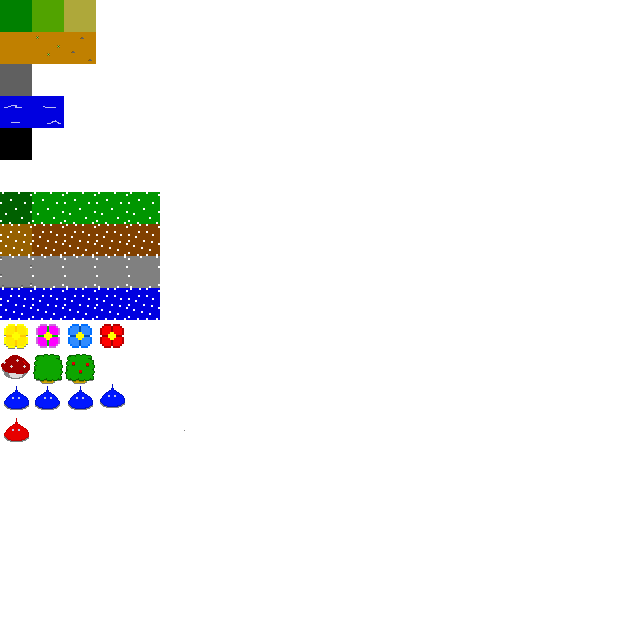
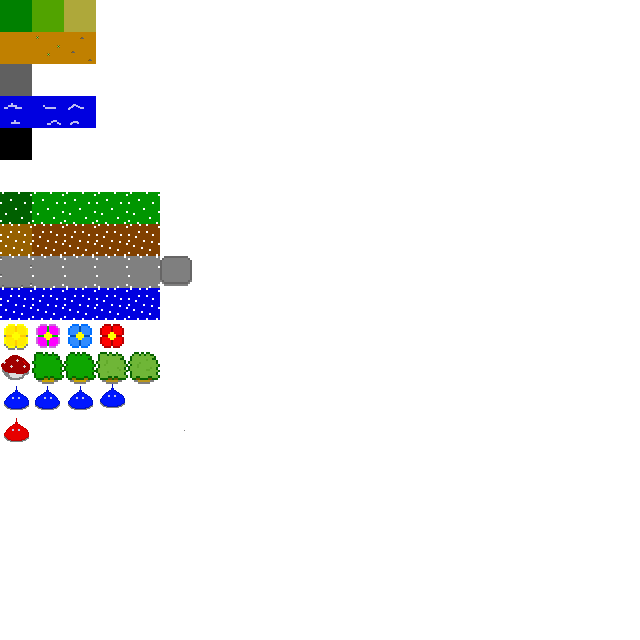
implement animations for WorldObject

Changed region(s): [[0.0312, 0.5312, 0.25, 0.625], [0.0938, 0.125, 0.1562, 0.2188], [0.25, 0.375, 0.3125, 0.4688]]

diff --git a/src/config.cc b/src/config.cc
@@ -103,7 +103,6 @@ ConfigurationController::ConfigurationController (std::string configFilePath, st
   }
   for (auto i = 0; i < configJson["objects"].size(); ++i)
   {
-    std::string spriteName = configJson["objects"][i]["sprite"].asString();
     std::string objectTypeName = configJson["objects"][i]["name"].asString();
     bool impassable = configJson["objects"][i]["impassable"].asBool();
     bool clusters = configJson["objects"][i]["clusters"].asBool();
@@ -113,11 +112,24 @@ ConfigurationController::ConfigurationController (std::string configFilePath, st
     {
       bM[biomesArray[i].asString()] = 1;
     }
-    TileType tileType { &sprites[spriteName], objectTypeName };
-    tileTypes[tileType.name] = tileType;
+
     std::map<int, Sprite*> animationMap; // TODO : Fix this
-    animationMap[0] = &sprites[spriteName];
-    ObjectType o { &sprites[spriteName], objectTypeName, impassable, configJson["objects"][i]["multiplier"].asFloat(), clusters, animationMap, 0, bM };
+    std::string spriteName;
+    if (configJson["objects"][i]["sprite"].isString())
+    {
+      spriteName = configJson["objects"][i]["sprite"].asString();
+      animationMap[0] = &sprites[spriteName];
+    }
+    else if (configJson["objects"][i]["sprite"].isArray())
+    {
+      const Json::Value& animationArr = configJson["objects"][i]["sprite"];
+      spriteName = animationArr[0].asString();
+      for (int i = 0; i < animationArr.size(); i++)
+      {
+        animationMap[i] = &sprites[animationArr[i].asString()];
+      }
+    }
+    ObjectType o { &sprites[spriteName], objectTypeName, impassable, configJson["objects"][i]["multiplier"].asFloat(), clusters, animationMap, 1000, bM };
     objectTypes[objectTypeName] = o;
     SDL_Log("- Loaded '%s' object", objectTypeName.c_str());
   }
@@ -131,8 +143,6 @@ ConfigurationController::ConfigurationController (std::string configFilePath, st
       bM[biomesArray[i].asString()] = 1;
     }
     SDL_Log("- Loaded '%s' mob", mobTypeName.c_str());
-    //TileType tileType { &sprites[spriteName], mobTypeName };
-    //tileTypes[tileType.name] = tileType;
     std::map<int, Sprite*> animationMap; // TODO : Fix this
     std::string spriteName;
     if (configJson["mobs"][i]["sprite"].isString())

diff --git a/src/engine.cc b/src/engine.cc
@@ -177,11 +177,6 @@ void GameEngine::scrollGameSurface(int directions)
       dest.y += movementSpeed;
     if (directions & DOWN)
       dest.y -= movementSpeed;
-    if (directions & DOWN && directions & LEFT)
-    {
-      dest.y += movementSpeed/2;
-      dest.y -= movementSpeed/2;
-    }
     SDL_RenderCopy(appRenderer, gfxController.getGameSurfaceTexture(), NULL, &dest);
     renderCopyPlayer();
     gfxController.applyUi();;
@@ -274,11 +269,10 @@ void GameEngine::renderCopyTiles()
       gfxController.renderCopySprite("Sprite 0x128", x, y);
     if (worldObject != mapController.worldMap[zLevel].end())
       for ( auto w : worldObject->second )
-        gfxController.renderCopyObject<WorldObject>(w, x, y);
+        gfxController.renderCopyObject(w, x, y);
     auto mobObject = mapController.mobMap[zLevel].find({ i, j });
     if (mobObject != mapController.mobMap[zLevel].end())
       for ( auto &w : mobObject->second )
-        //gfxController.renderCopyObject<MobObject>(w, x, y);
         gfxController.renderCopyMobObject(w, x, y);
   };
   std::thread r (

diff --git a/src/graphics.h b/src/graphics.h
@@ -29,9 +29,28 @@ struct GraphicsController
   void applyUi();
   int renderCopySprite(std::string, int, int);
   int renderCopySprite(Sprite*, int, int);
-  template<class T> int renderCopyObject(std::shared_ptr<T> t, int x, int y)
+  int renderCopyObject(std::shared_ptr<WorldObject> t, int x, int y)
   {
-    return renderCopySprite(t->sprite, x, y);
+
+    if (!t->isAnimated())
+      return renderCopySprite(t->objectType->sprite, x, y);
+    else
+    {
+      if (t->animationTimer.elapsed() > t->animationSpeed)
+      {
+        t->animationTimer.stop();
+        t->animationTimer.start();
+        t->animationFrame++;
+        if (t->animationFrame >= t->objectType->maxFrames())
+          t->animationFrame = 0;
+      }
+
+      auto it = t->objectType->animationMap.find(t->animationFrame);
+      if (it == t->objectType->animationMap.end())
+        return renderCopySprite(t->objectType->sprite, x, y);
+      else
+        return renderCopySprite(it->second, x, y);
+    }
   }
   int renderCopyMobObject(std::shared_ptr<MobObject> t, int x, int y)
   {

diff --git a/src/map.cc b/src/map.cc
@@ -304,6 +304,11 @@ int MapController::generateMapChunk(Rect* chunkRect)
           std::shared_ptr<WorldObject> o = std::make_shared<WorldObject>(
             i, j, &cfg->objectTypes[n], &cfg->biomeTypes[b->name]
           );
+          if (cfg->objectTypes[n].isAnimated())
+          {
+            o->animationTimer.start();
+            o->animationSpeed = cfg->objectTypes[n].animationSpeed + std::rand() % 3000;
+          }
           updateTile(h, i, j, o, nullptr);
         }  
       }
